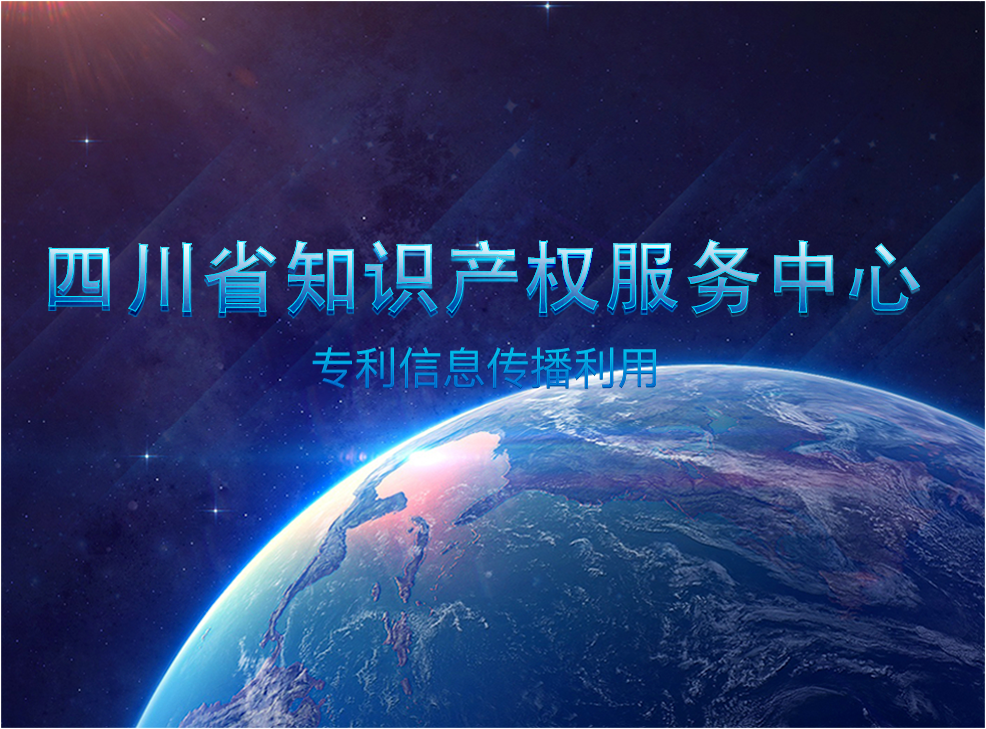
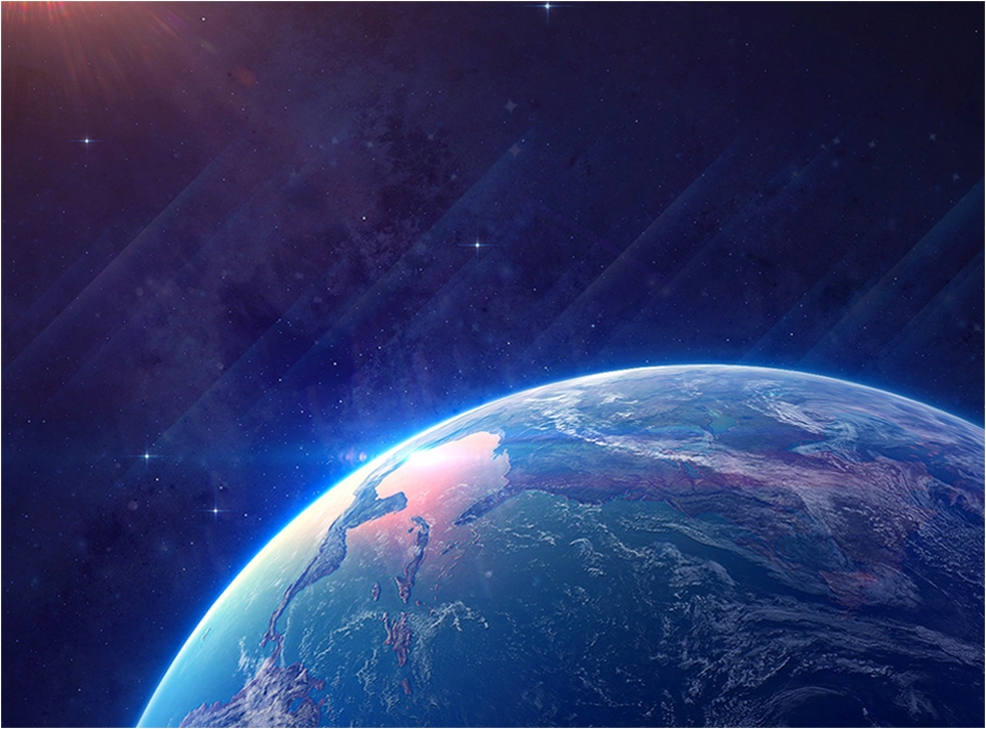
动画

Changed region(s): [[0.0304, 0.332, 0.9432, 0.5432]]

diff --git a/Wipo/gui/IntroductionWidget.cpp b/Wipo/gui/IntroductionWidget.cpp
@@ -1,26 +1,32 @@
 #include "IntroductionWidget.h"
 #include "ui_IntroductionWidget.h"
+#include "TitleLabel.h"
+
+#include <QDebug>
 #include <QPropertyAnimation>
-#include <QSequentialAnimationGroup>
+#include <QParallelAnimationGroup>
 #include <QGraphicsOpacityEffect>
 
 IntroductionWidget::IntroductionWidget(QWidget *parent) : QWidget(parent), ui(new Ui::IntroductionWidget) {
     ui->setupUi(this);
     setAttribute(Qt::WA_StyledBackground);
 
+    titleLabel = new TitleLabel(this);
+    titleLabel->move(-5000, 230);
+
     connect(ui->startButton, &QPushButton::clicked, [=] {
         QGraphicsOpacityEffect *effect = new QGraphicsOpacityEffect(this);
         effect->setOpacity(1);
-        setGraphicsEffect(effect);
+        this->setGraphicsEffect(effect);
 
         QPropertyAnimation *an = new QPropertyAnimation(effect, "opacity");
         an->setEndValue(0);
         an->setDuration(300);
-        an->start(QAbstractAnimation::DeleteWhenStopped);
         an->setEasingCurve(QEasingCurve::InCubic);
+        an->start(QAbstractAnimation::DeleteWhenStopped);
 
         connect(an, &QPropertyAnimation::finished, [=] {
-            hide();
+            this->hide();
         });
     });
 }
@@ -30,21 +36,25 @@ IntroductionWidget::~IntroductionWidget() {
 }
 
 void IntroductionWidget::showEvent(QShowEvent *) {
-    int y = 233;
+    QPropertyAnimation *an = new QPropertyAnimation(titleLabel, "geometry");
+    an->setStartValue(QRect(470, 280, 1, 1));
+    an->setEndValue(QRect(10, 210, 945, 161));
+    an->setDuration(2000);
+    an->setEasingCurve(QEasingCurve::OutBounce);
+    an->start(QAbstractAnimation::DeleteWhenStopped);
 
-    QPropertyAnimation *an1 = new QPropertyAnimation(ui->flashWidget, "pos");
-    an1->setStartValue(QPoint(-1000, y));
-    an1->setEndValue(QPoint(1500, y));
-    an1->setDuration(500);
-    an1->setEasingCurve(QEasingCurve::InCubic);
+//    QGraphicsOpacityEffect *effect = new QGraphicsOpacityEffect(this);
+//    effect->setOpacity(0);
+//    titleLabel->setGraphicsEffect(effect);
 
-    QPropertyAnimation *an2 = new QPropertyAnimation(ui->flashWidget, "pos");
-    an2->setEndValue(QPoint(0, y));
-    an2->setDuration(500);
-    an2->setEasingCurve(QEasingCurve::OutCubic);
+//    QPropertyAnimation *effectAn = new QPropertyAnimation(titleLabel, "opacity");
+//    effectAn->setStartValue(0);
+//    effectAn->setEndValue(1);
+//    effectAn->setDuration(1000);
+//    effectAn->setEasingCurve(QEasingCurve::InCubic);
 
-    QSequentialAnimationGroup *anGroup = new QSequentialAnimationGroup();
-    anGroup->addAnimation(an1);
-//    anGroup->addAnimation(an2);
-    anGroup->start(QAbstractAnimation::DeleteWhenStopped);
+//    QParallelAnimationGroup *anGroup = new QParallelAnimationGroup(this);
+//    anGroup->addAnimation(an);
+//    anGroup->addAnimation(effectAn);
+//    anGroup->start(QAbstractAnimation::DeleteWhenStopped);
 }

diff --git a/Wipo/gui/TitleLabel.h b/Wipo/gui/TitleLabel.h
@@ -1,0 +1,18 @@
+#ifndef TITLELABEL_H
+#define TITLELABEL_H
+
+#include <QWidget>
+
+class TitleLabel : public QWidget {
+    Q_OBJECT
+public:
+    explicit TitleLabel(QWidget *parent = 0);
+
+protected:
+    void paintEvent(QPaintEvent *event) Q_DECL_OVERRIDE;
+
+private:
+    QPixmap background;
+};
+
+#endif // TITLELABEL_H

diff --git a/Wipo/gui/TitleLabel.cpp b/Wipo/gui/TitleLabel.cpp
@@ -1,0 +1,11 @@
+#include "TitleLabel.h"
+#include <QPainter>
+
+TitleLabel::TitleLabel(QWidget *parent) : QWidget(parent) {
+    background.load(":/img/title.png");
+}
+
+void TitleLabel::paintEvent(QPaintEvent *) {
+    QPainter painter(this);
+    painter.drawPixmap(rect(), background);
+}

diff --git a/Wipo/gui/IntroductionWidget.h b/Wipo/gui/IntroductionWidget.h
@@ -2,6 +2,7 @@
 #define INTRODUCTIONWIDGET_H
 
 #include <QWidget>
+class TitleLabel;
 
 namespace Ui {
 class IntroductionWidget;
@@ -19,6 +20,7 @@ protected:
 
 private:
     Ui::IntroductionWidget *ui;
+    TitleLabel *titleLabel;
 };
 
 #endif // INTRODUCTIONWIDGET_H
